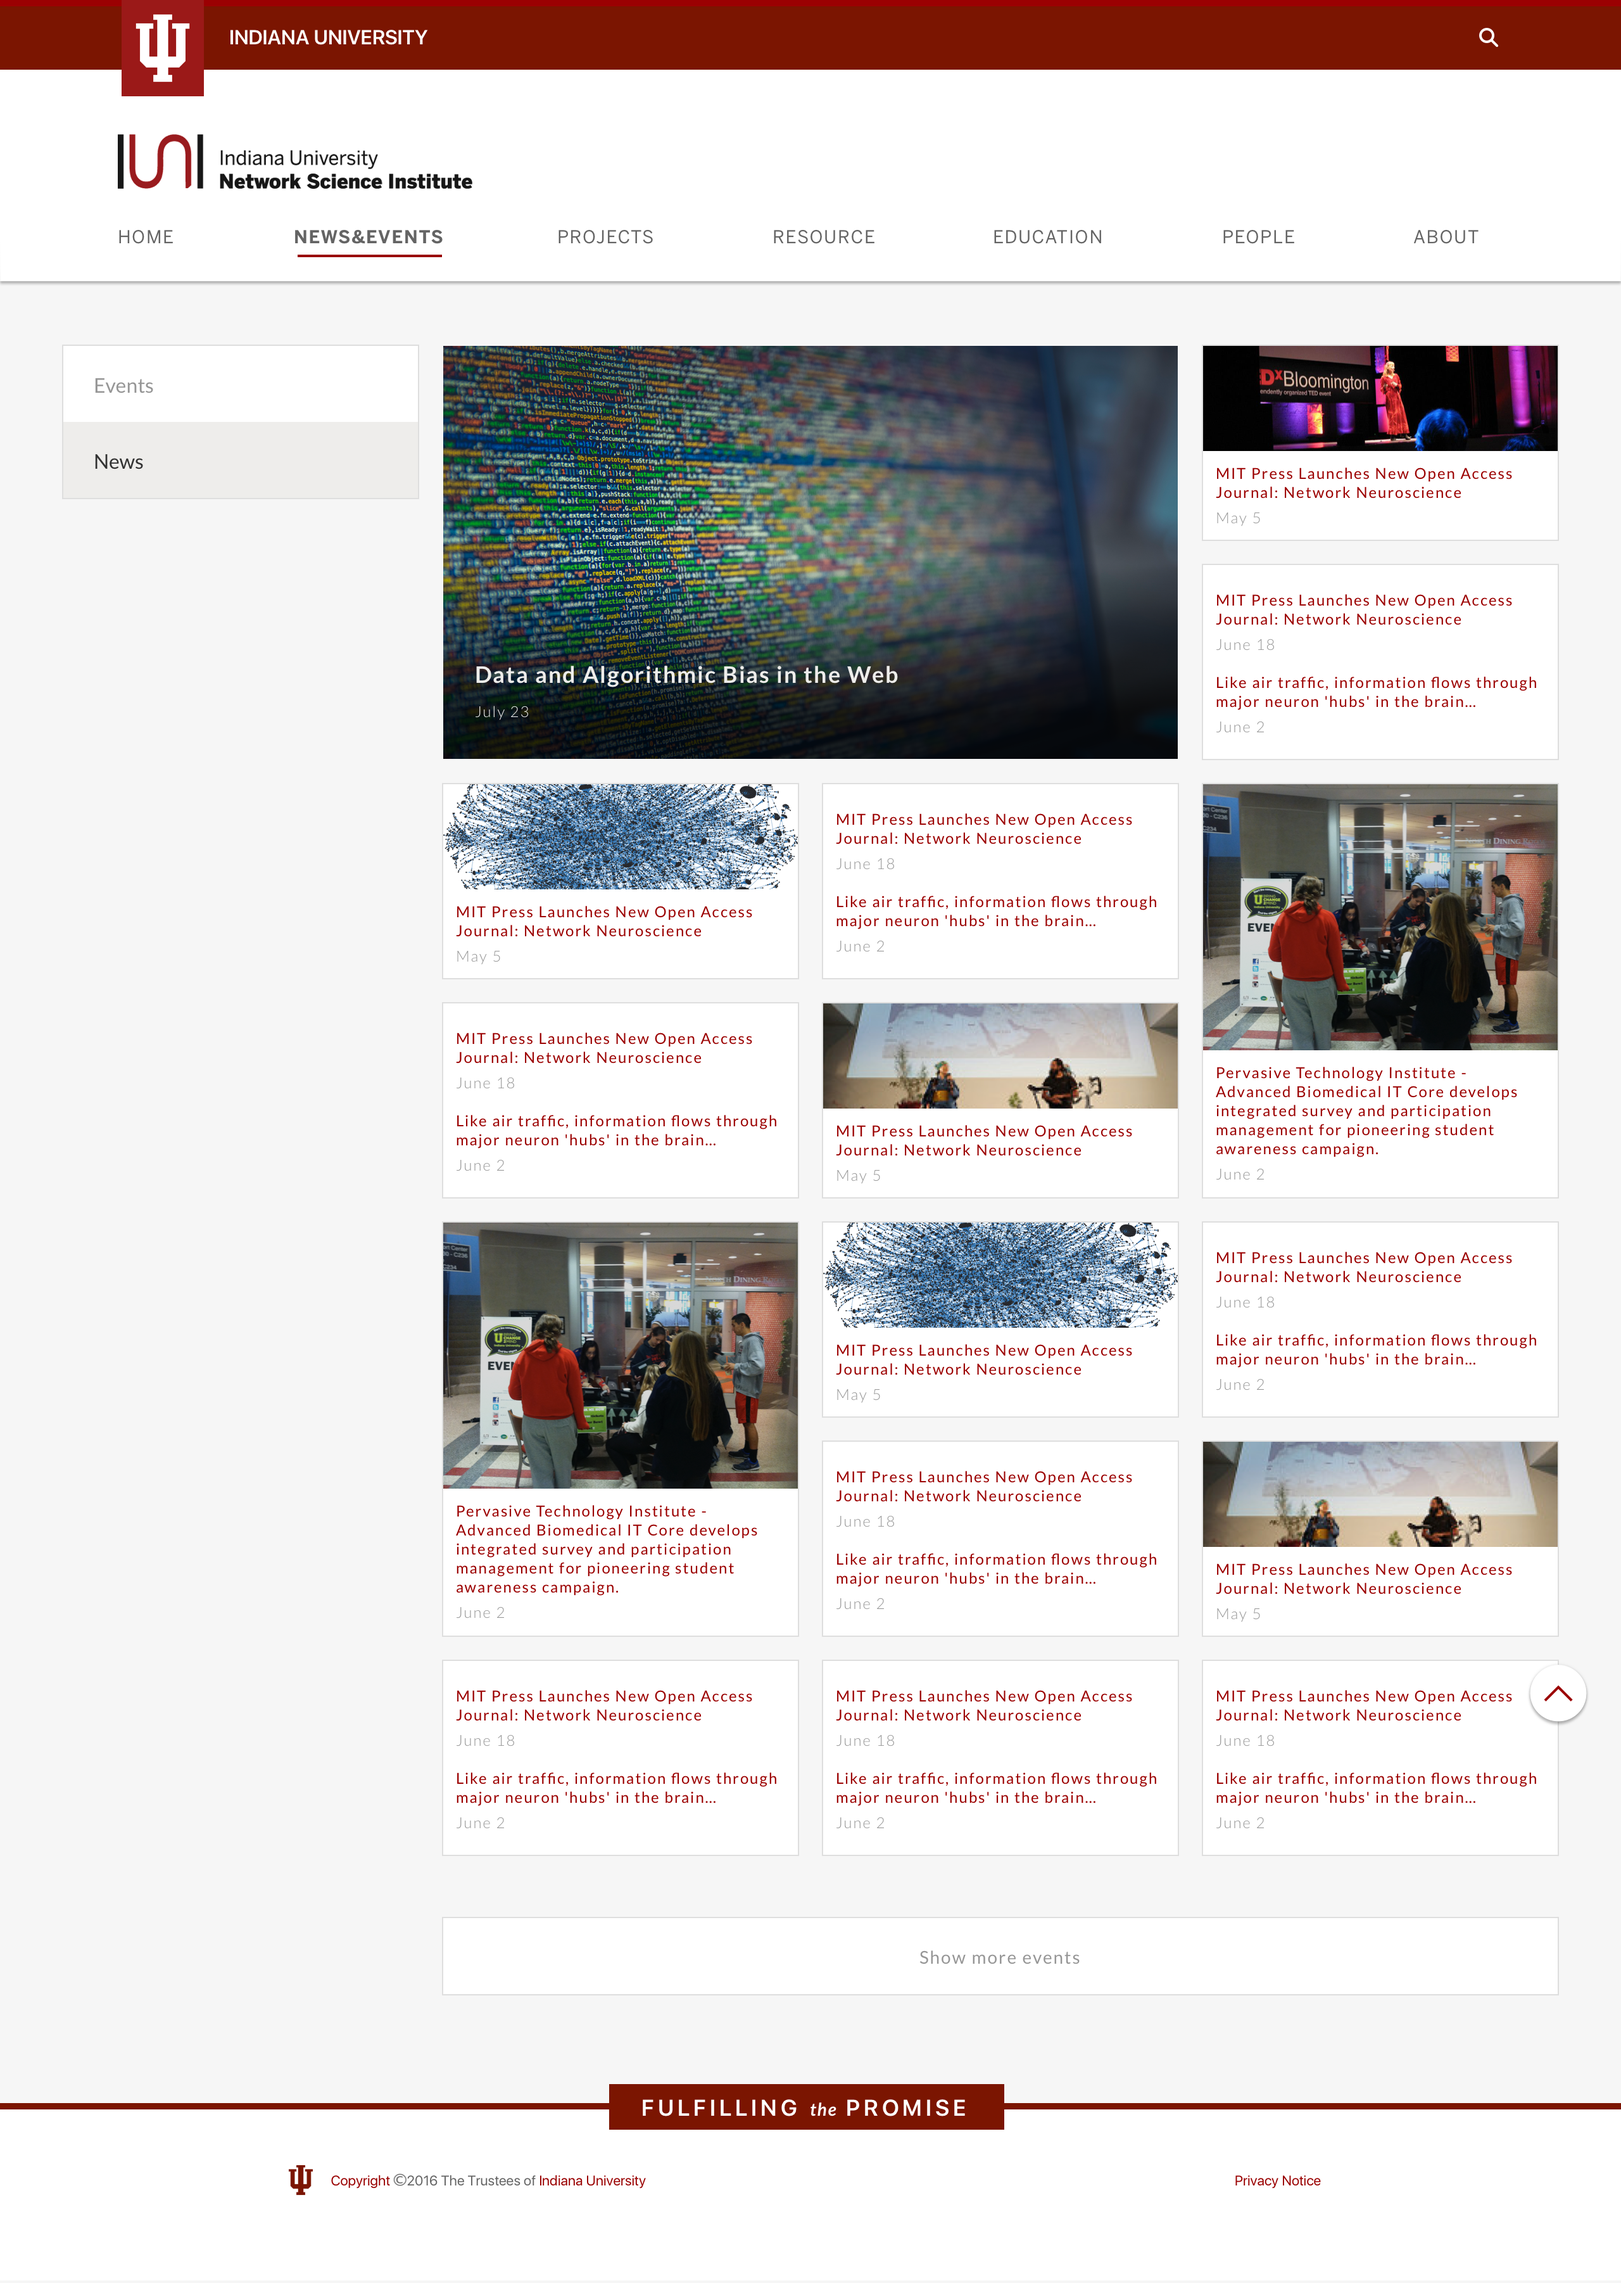
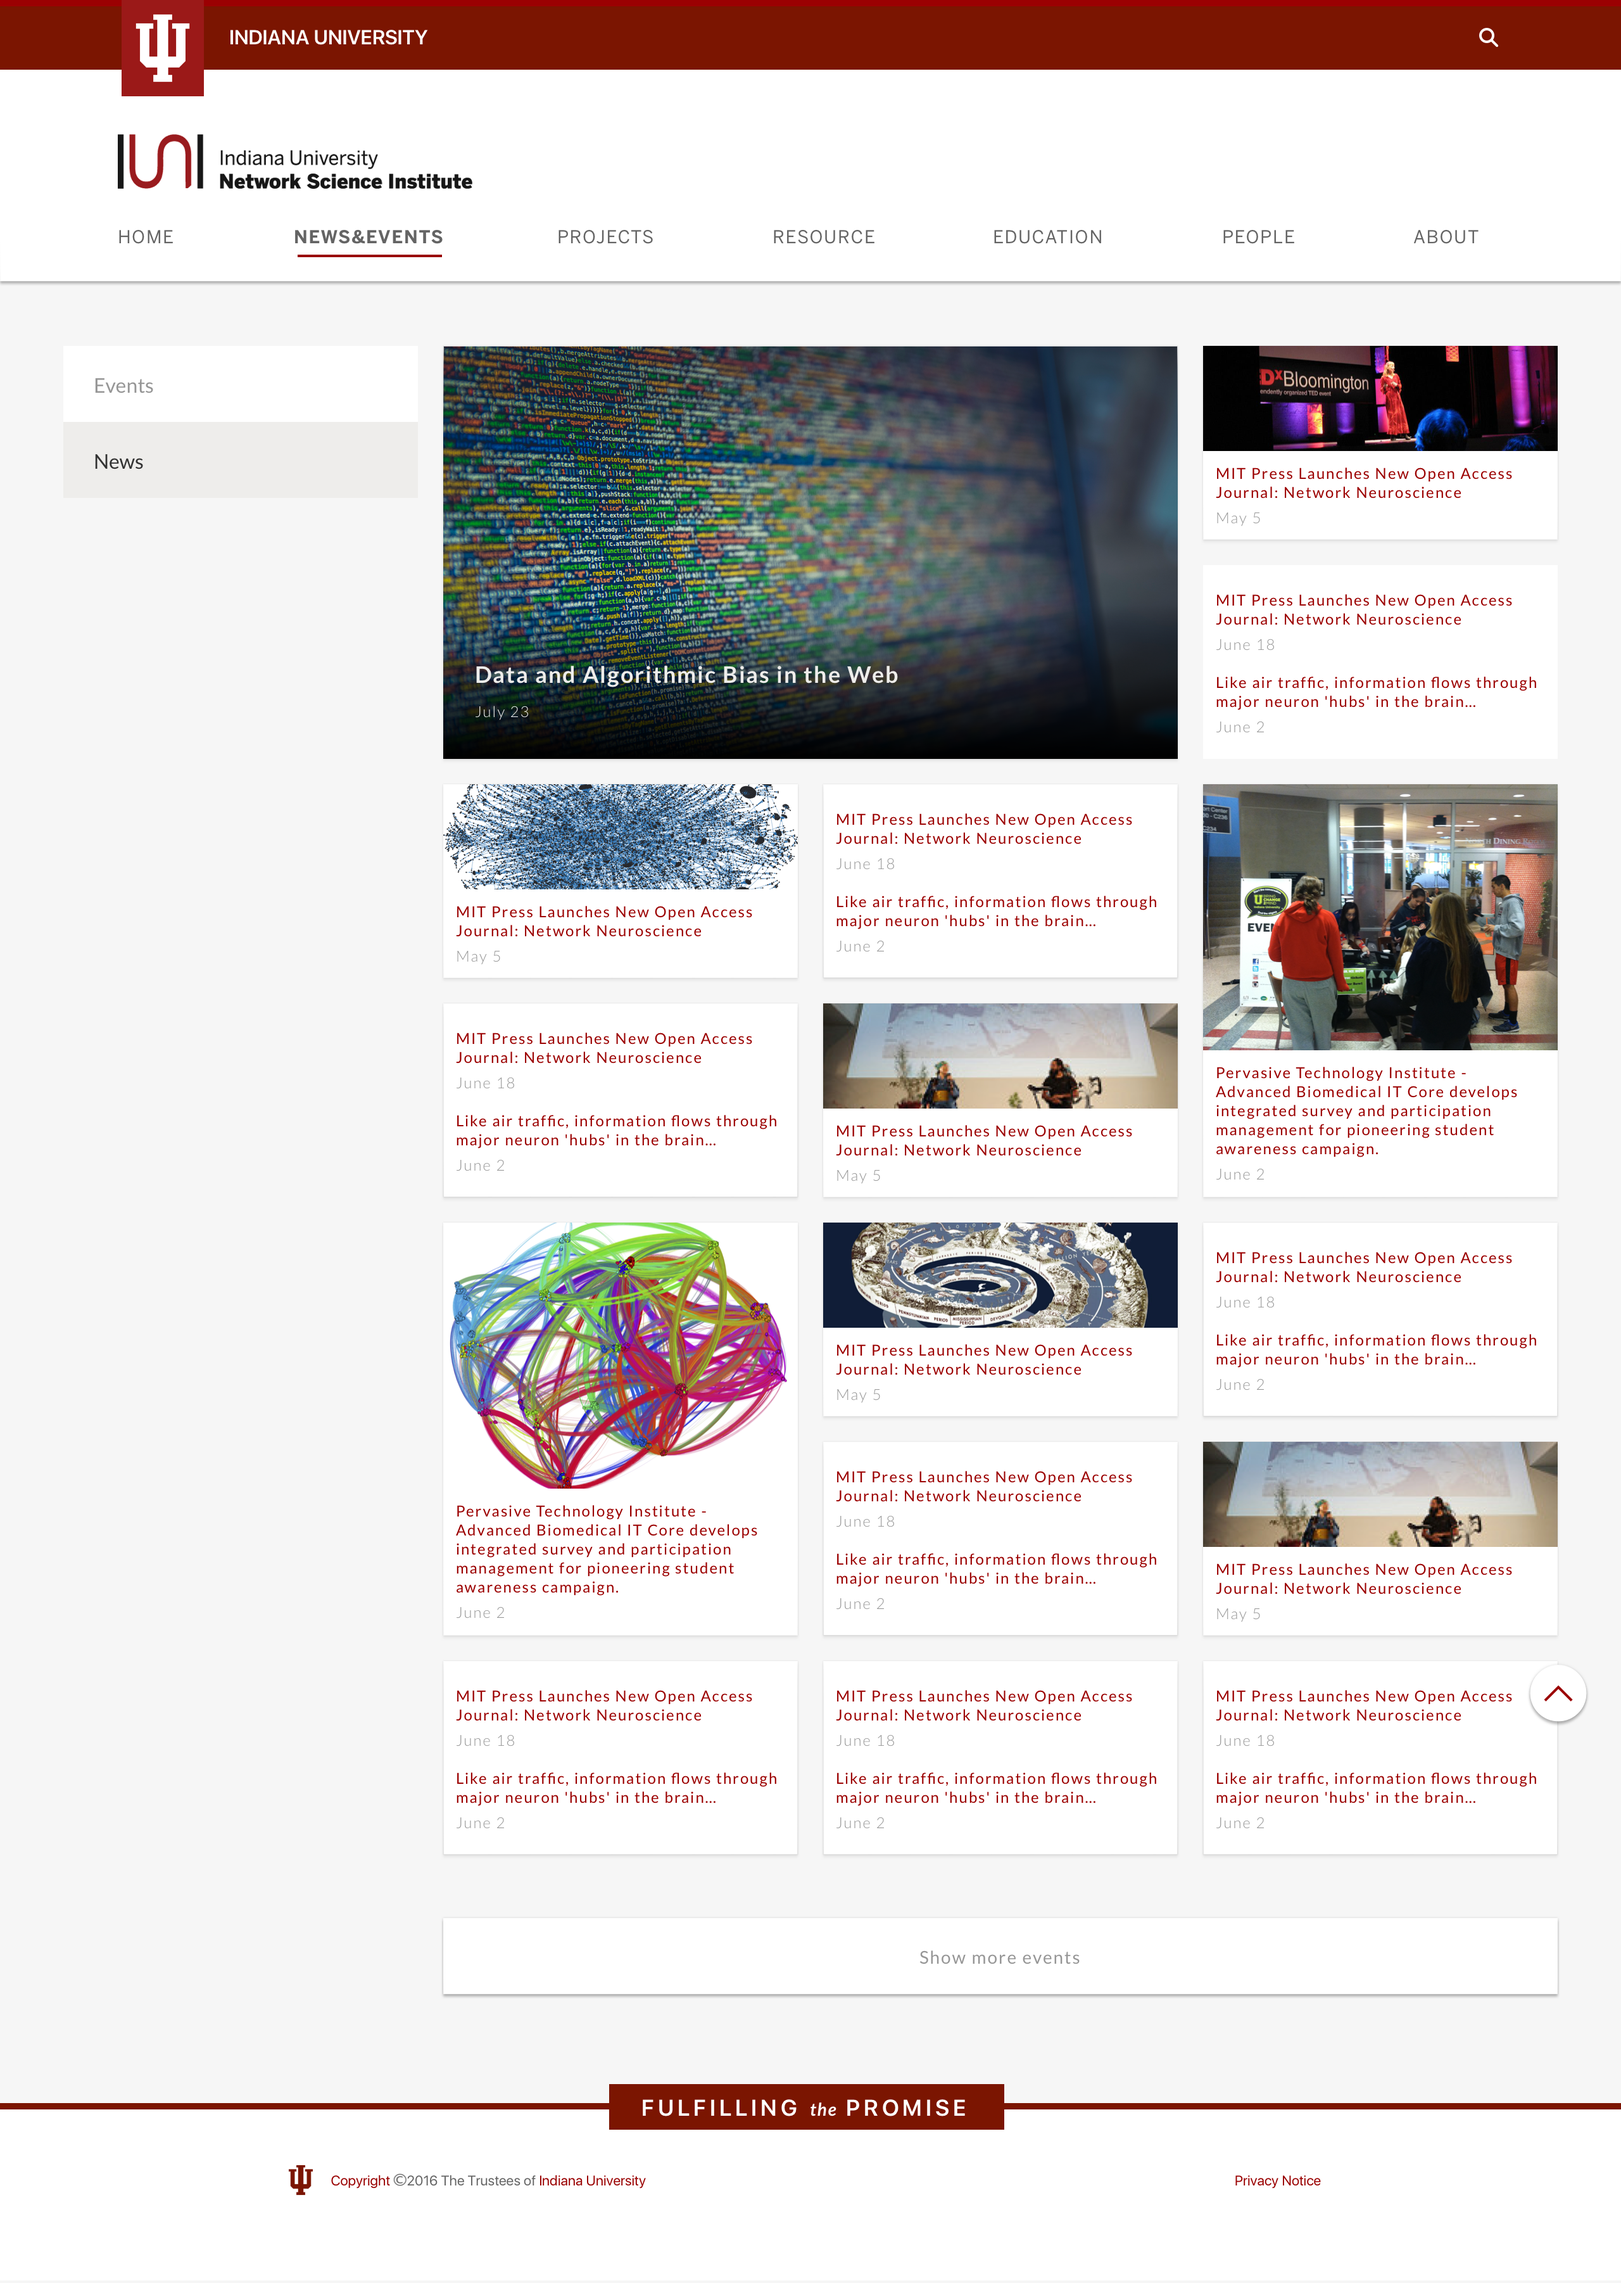
add news, update

Changed region(s): [[0.25, 0.5283, 0.75, 0.6526], [0.7188, 0.3418, 0.9688, 0.4661], [0.3438, 0.2486, 0.5, 0.2797]]

diff --git a/iuni/iuni.html b/iuni/iuni.html
@@ -19,33 +19,43 @@
     <script src="https://use.fontawesome.com/4d0892714c.js"></script>
     <script src="http://assets.iu.edu/web/1.5/libs/modernizr.min.js"></script>
 
-    
+
     <!--   import jquery-->
     <script type="text/javascript" src="//code.jquery.com/jquery-1.11.0.min.js"></script>
     <script type="text/javascript" src="//code.jquery.com/jquery-migrate-1.2.1.min.js"></script>
     <script src="//assets.iu.edu/web/3.x/js/iu-framework.min.js"></script>
-    
-    
+
+
 
     <style>
-        .col-md-12 .col-md-offset-1 .col-md-5 {
+        h2 {
+            /*            margin-left: 80px;*/
+            font-size: 16px;
+            letter-spacing: 1px;
+            font-weight: 500;
+            margin-top: 80px;
+        }
+        
+        .col-md-12 .col-md-offset-1 .col-md-5 .col-md-3 {
             padding: 0;
+            margin: 0;
         }
         
         .row p {
             margin-bottom: 20px;
-            color: #999;
+            color: #9B0000;
+            font-size: 14px;
         }
         
         .row h2 {
             margin-top: 50px;
-/*            margin-bottom: -5px;*/
-            font-size: 16px;
-            font-weight: 500;
+            text-align: left;
+            margin-left: 80px;
+            /*            margin-bottom: -5px;*/
+            font-size: 14px;
+            font-weight: 200;
             letter-spacing: 1px;
         }
-        
-
         
         .img-hover {
             padding-left: 15px;
@@ -70,6 +80,13 @@
             margin-bottom: 40px;
         }
         
+        .bg-iuni {
+            padding-top: 20px;
+        }
+        
+        #iuni-link div:hover {
+            background-color: #a8d2f7;
+        }
     </style>
 
 </head>
@@ -102,11 +119,11 @@
         </div>
 
     </nav>
-  
-  
-  
-   <header>
-<!--
+
+
+
+    <header>
+        <!--
        <div id="branding-bar" itemscope="itemscope" itemtype="http://schema.org/CollegeOrUniversity" role="complementary" aria-labelledby="campus-name">
            <div class="row pad">
                <img src="//assets.iu.edu/brand/3.x/trident-large.png" class="img-responsive" alt="IU" />
@@ -120,31 +137,160 @@
            </div>
        </div>
 -->
-   </header>
-    
-   
-   
+    </header>
+
+
+
     <!--CONTENT-->
     <section class="container-fluid text-center">
 
+        <h2>IUNI WEBSITE DESIGN</h2>
 
 
-        <div class="row">
-            <h2>IUNI HOMEPAGE DESIGNS</h2>
-            <p style="margin-top: -25px; margin-bottom: 60px;">this page is responsive</p>
-            
+        <div id="iuni-link" class="row">
+
+            <h2>Homepage</h2>
+
+            <a href="v1.0.html" target="_blank">
+                <div class="col-md-3 bg-iuni">
+
+                    <p>v1.0</p>
+
+                </div>
+            </a>
+
+            <a href="v1.1.html" target="_blank">
+                <div class="col-md-3 bg-iuni">
+
+                    <p>v1.1</p>
+
+                </div>
+            </a>
+
+
+            <a href="v1.2.html" target="_blank">
+                <div class="col-md-3 bg-iuni">
+
+                    <p>v1.2</p>
+
+                </div>
+            </a>
+
+
+            <a href="v1.3.html" target="_blank">
+                <div class="col-md-3 bg-iuni">
+
+                    <p>v1.3</p>
+
+                </div>
+            </a>
+
+
+            <a href="v1.4.html" target="_blank">
+                <div class="col-md-3 bg-iuni">
+
+                    <p>v1.4-card design</p>
+
+                </div>
+            </a>
+
+            <a href="v1.5.html" target="_blank">
+                <div class="col-md-3 bg-iuni">
+
+                    <p>v1.5-IU branding</p>
+
+                </div>
+            </a>
+
+            <a href="v1.6.html" target="_blank">
+                <div class="col-md-3 bg-iuni">
+
+                    <p>v1.6-Innovative</p>
+
+                </div>
+            </a>
+
+
+
+        </div>
+
+
+
+
+        <div id="iuni-link" class="row">
+
+            <h2>News&amp;Events</h2>
+
+            <a href="events/v1.0.html" target="_blank">
+                <div class="col-md-3 bg-iuni">
+
+                    <p>Events-v1.0</p>
+
+                </div>
+            </a>
+
+            <a href="events/v1.1.html" target="_blank">
+                <div class="col-md-3 bg-iuni">
+
+                    <p>Events-v1.1</p>
+
+                </div>
+            </a>
+
+            <a href="events/v1.2.html" target="_blank">
+                <div class="col-md-3 bg-iuni">
+
+                    <p>Events-v1.2</p>
+
+                </div>
+            </a>
+
+            <a href="events/news-v1.0.html" target="_blank">
+                <div class="col-md-3 bg-iuni">
+
+                    <p>News-v1.0</p>
+
+                </div>
+            </a>
+
+
+            <a href="events/news-v1.1.html" target="_blank">
+                <div class="col-md-3 bg-iuni">
+
+                    <p>News-v1.1</p>
+
+                </div>
+            </a>
+
+
+
+
+
+        </div>
+
+
+
+
+
+
+<!--        <div class="row">
+
+            <h2>Homepage</h2>
+
+
+
             <div class="col-md-offset-1 col-md-10 col-md-offset-1">
-                
-                
+
+
                 <div class="row">
                     <div class="col-md-4 ">
 
-                        <a target="_blank" href="v1.0.html" >
+                        <a target="_blank" href="v1.0.html">
                             <img class="img-responsive" src="images/sm-normal-v1.0.png">
-<!--                            <img style="padding:0 15px 0 15px;" class="img-hover img-responsive" src="images/sm-normal-v1.0.png">-->
+
                         </a>
 
-<!--                        <p style="width:335px; margin:auto; margin-bottom:100px;">In this design, I tried to make it simple and clean. Use red color and bigger font to highlight important information. Divided different parts with white spaces.</p>-->
+
 
                     </div>
 
@@ -152,18 +298,16 @@
 
                         <a target="_blank" href="v1.1.html">
                             <img class="img-responsive" src="images/sm-normal-v1.1.png">
-<!--                            <img class="img-hover img-responsive" src="../images/iuni/v2-hover.png">-->
                         </a>
 
-<!--                        <p style="width:335px; margin:auto; margin-bottom:100px;">In this version, I added more colors to make it more lively, used card design to group information.</p>-->
 
 
                     </div>
-                    
-                    
+
+
                     <div class="col-md-4 ">
 
-                        <a target="_blank" href="v1.2.html" >
+                        <a target="_blank" href="v1.2.html">
                             <img class="img-responsive" src="images/sm-normal-v1.2.png">
                         </a>
 
@@ -177,12 +321,12 @@
                             <img class="img-responsive" src="images/sm-normal-v1.3.png">
                         </a>
 
-                    
+
 
 
                     </div>
-                    
-                    
+
+
                     <div class="col-md-4 ">
 
                         <a target="_blank" href="v1.4.html">
@@ -198,7 +342,7 @@
                         </a>
 
                     </div>
-                    
+
                     <div class="col-md-4 ">
 
                         <a target="_blank" href="v1.6.html">
@@ -206,51 +350,47 @@
                         </a>
 
                     </div>
-                    
-                    
-                </div>
-                
-                
-            </div>
-            
-            
-            
-            
-            
 
-        </div>
+
+                </div>
+
+
+            </div>
+
+
+        </div>-->
 
 
     </section>
 
 
 
-<!--
+    <!--
     * Initialize IU JS
 -->
     <script type="text/javascript">
-    (function($, window, document, undefined) {
+        (function ($, window, document, undefined) {
 
-    $(document).ready(function() {
+            $(document).ready(function () {
 
-    Foundation.OffCanvas.defaults.transitionTime = 500;
-    Foundation.OffCanvas.defaults.forceTop = false;
-    Foundation.OffCanvas.defaults.positiong = 'right';
+                Foundation.OffCanvas.defaults.transitionTime = 500;
+                Foundation.OffCanvas.defaults.forceTop = false;
+                Foundation.OffCanvas.defaults.positiong = 'right';
 
-    Foundation.Accordion.defaults.multiExpand = true;
-    Foundation.Accordion.defaults.allowAllClosed = true;
+                Foundation.Accordion.defaults.multiExpand = true;
+                Foundation.Accordion.defaults.allowAllClosed = true;
 
-    // Initialize Foundation
-    $(document).foundation();
+                // Initialize Foundation
+                $(document).foundation();
 
-    var IU = window.IU || {};
+                var IU = window.IU || {};
 
-    // Delete modules if necessary
-    // delete IU.uiModules['accordion'];
+                // Delete modules if necessary
+                // delete IU.uiModules['accordion'];
 
-    IU.init && IU.init();
-    });
-    })(jQuery, window, window.document);
+                IU.init && IU.init();
+            });
+        })(jQuery, window, window.document);
     </script>
 
 </body>
